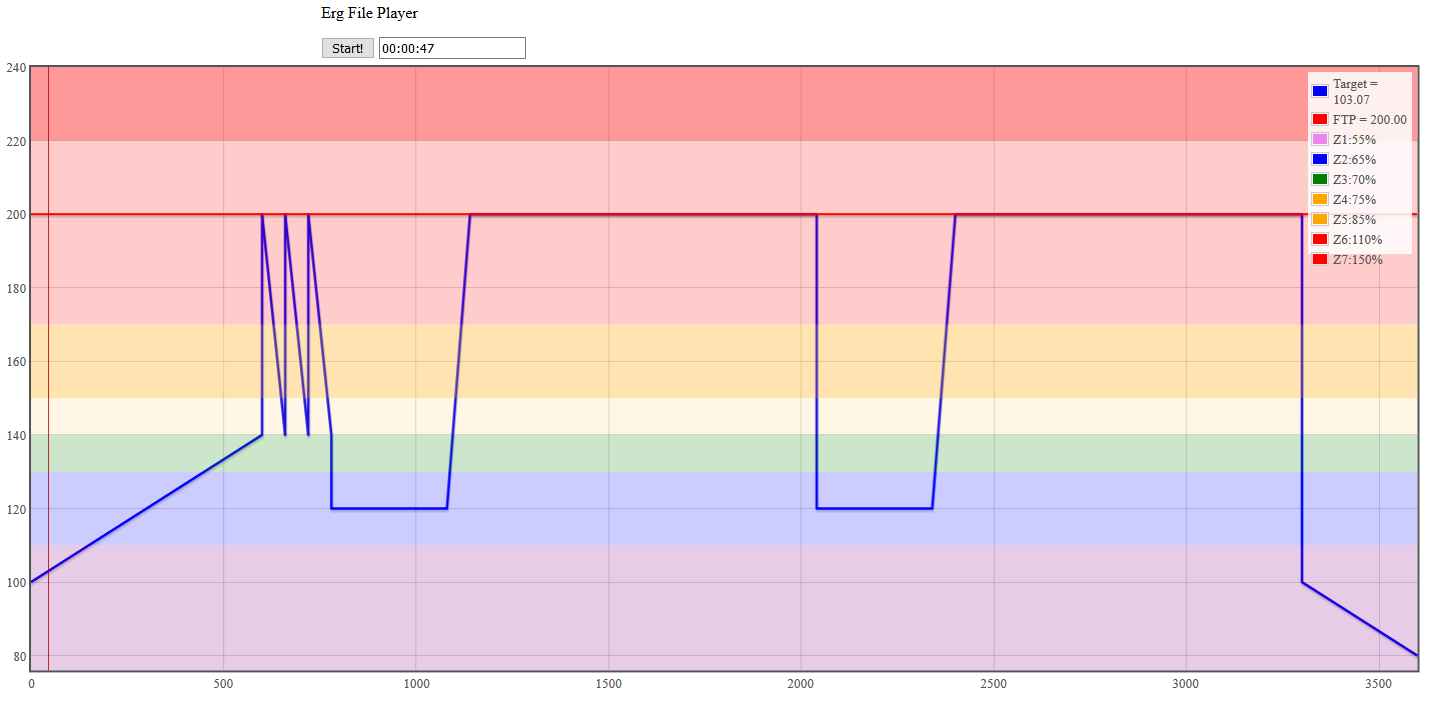
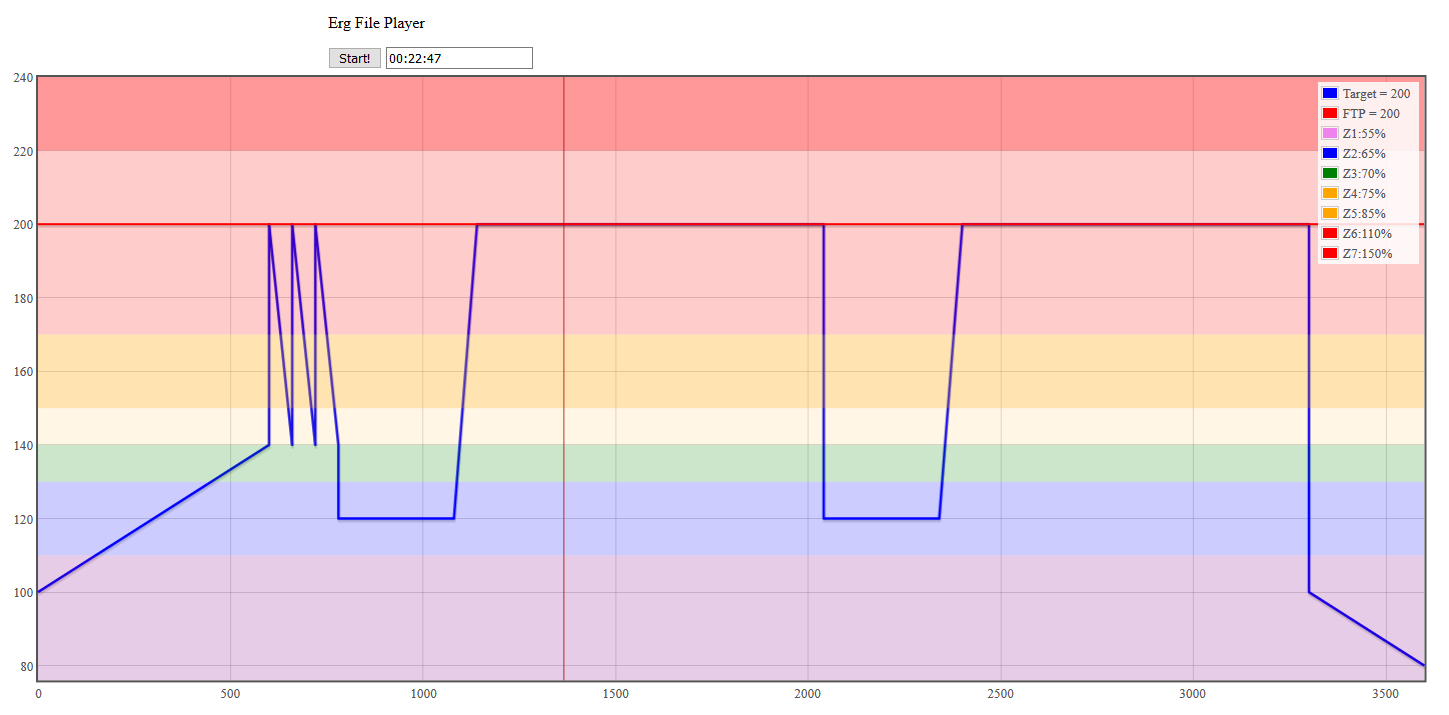
Add files via upload
updated graph and example

diff --git a/flot.html b/flot.html
@@ -21,7 +21,7 @@
         font-size: smaller;
     }
 	#placeholder{
-	  width: 50%;
+	  width: 100%;
 	  margin: 0 auto;
 	}
 	#myDiv{
@@ -117,9 +117,8 @@ $(function() {
 			steps = false;
 
 		plot = $.plot("#placeholder", [
-			{ data: t, label: "Target = -0.00",	color:"blue", 	lines:{lineWidth:2.5}},
-			{ data: p, label: "FTP = -0.00",	color:"red", 		lines:{fill:false}},
-
+			{ data: t, label: "Target = Start",	color:"blue", 	lines:{lineWidth:2.5}},
+			{ data: p, label: "FTP = -0",	color:"red", 		lines:{fill:false}},
 			{ data: z1, label: "Z1:55%",			color: "violet",	stack:true,lines:{lineWidth:0,fill:0.2}},
 			{ data: z2, label: "Z2:65%",			color: "blue",		stack:true,lines:{lineWidth:0,fill:0.2}},
 			{ data: z3, label: "Z3:70%",			color: "green",		stack:true,lines:{lineWidth:0,fill:0.2}},
@@ -216,7 +215,7 @@ function myFunction() {
 			y = p1[1] + (p2[1] - p1[1]) * (timeDelta - p1[0]) / (p2[0] - p1[0]);
 		}
 
-		legends.eq(i).text(series.label.replace(/=.*/, "= " + y.toFixed(2)));
+		legends.eq(i).text(series.label.replace(/=.*/, "= " + y.toFixed(0)));
 	}
 	timeDelta++;
 	//minutes = Math.floor(timeDelta/60);
